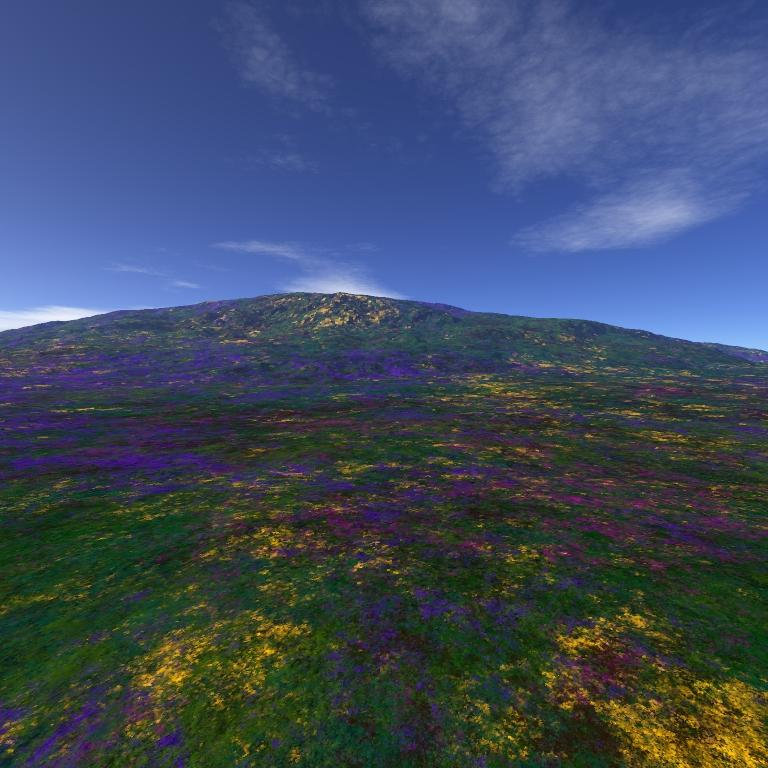
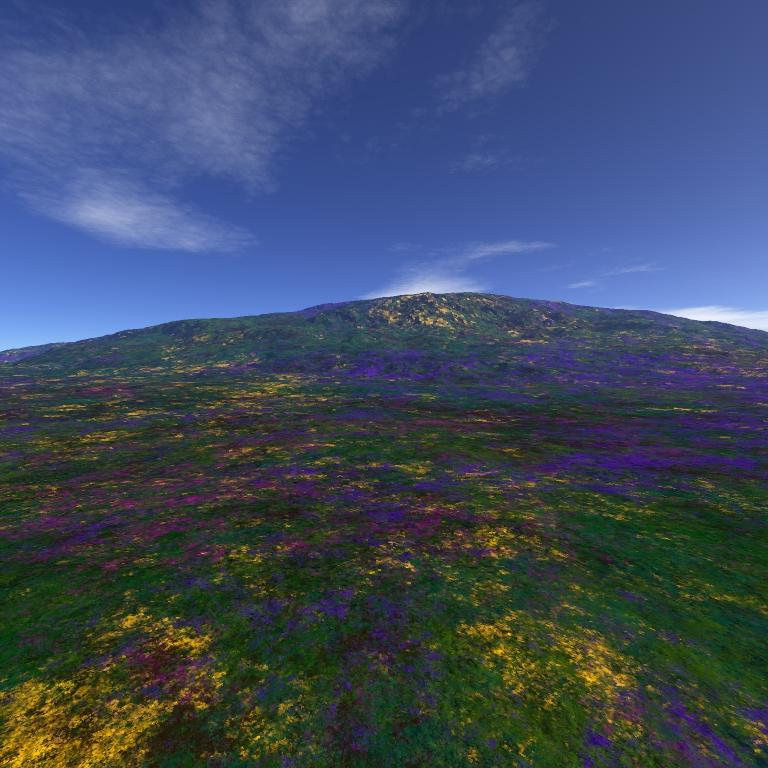
Created the skybox and edited a jpg

diff --git a/P1_CPP/Project_1/Sources/Project1.cpp b/P1_CPP/Project_1/Sources/Project1.cpp
@@ -5,6 +5,7 @@
 */
 
 #include <Project1.hpp>
+#include <cmath>
 #include <string>
 
 namespace {
@@ -206,10 +207,52 @@ int main(int argc, char **argv)
 	glVertexAttribPointer(1, 2, GL_FLOAT, GL_FALSE, 5 * sizeof(float), (void*)(3 * sizeof(float)));
 	glEnableVertexAttribArray(1);
 
+	// Give the skybox its own vertex data so its UV rotation does not affect the boxes.
+	float skyboxVertices[sizeof(vertices) / sizeof(vertices[0])];
+	for (unsigned int i = 0; i < sizeof(vertices) / sizeof(vertices[0]); ++i)
+		skyboxVertices[i] = vertices[i];
+
+	// Face order: back, front, left, right, bottom, top
+	const float skyboxFaceRotationDegrees[6] = { 0.0f, 0.0f, 90.0f, 90.0f, 90.0f, 90.0f };
+	const bool skyboxFaceMirrored[6] = { true, false, false, false, true, false };
+	for (unsigned int face = 0; face < 6; ++face)	// Rotating the UV coordinates of each face of the skybox to match the orientation of the texture images
+	{
+		const float angle = glm::radians(skyboxFaceRotationDegrees[face]);
+		const float c = std::cos(angle);
+		const float s = std::sin(angle);
+		for (unsigned int vertex = 0; vertex < 6; ++vertex)
+		{
+			const unsigned int uv = (face * 6 + vertex) * 5 + 3;
+			const float originalU = skyboxVertices[uv];
+			const float v = skyboxVertices[uv + 1];
+			const float u = skyboxFaceMirrored[face] ? 1.0f - originalU : originalU;
+			const float x = u - 0.5f;
+			const float y = 0.5f - v;
+			skyboxVertices[uv] = c * x + s * y + 0.5f;
+			skyboxVertices[uv + 1] = 0.5f + s * x - c * y;
+		}
+	}
+
+	unsigned int skyboxVAO, skyboxVBO;
+	glGenVertexArrays(1, &skyboxVAO);
+	glGenBuffers(1, &skyboxVBO);
+	glBindVertexArray(skyboxVAO);
+	glBindBuffer(GL_ARRAY_BUFFER, skyboxVBO);
+	glBufferData(GL_ARRAY_BUFFER, sizeof(skyboxVertices), skyboxVertices, GL_STATIC_DRAW);
+	glVertexAttribPointer(0, 3, GL_FLOAT, GL_FALSE, 5 * sizeof(float), (void*)0);
+	glEnableVertexAttribArray(0);
+	glVertexAttribPointer(1, 2, GL_FLOAT, GL_FALSE, 5 * sizeof(float), (void*)(3 * sizeof(float)));
+	glEnableVertexAttribArray(1);
+
 
 	unsigned int box_texture = loadTexture(projectAssetPath("Project_1/Media/textures/container.jpg").c_str());
 	unsigned int smile_texture = loadTexture(projectAssetPath("Project_1/Media/textures/awesomeface.png").c_str());
 	unsigned int front_texture = loadTexture(projectAssetPath("Project_1/Media/skybox/front.jpg").c_str());
+	unsigned int back_texture = loadTexture(projectAssetPath("Project_1/Media/skybox/back.jpg").c_str());
+	unsigned int bottom_texture = loadTexture(projectAssetPath("Project_1/Media/skybox/bottom.jpg").c_str());
+	unsigned int right_texture = loadTexture(projectAssetPath("Project_1/Media/skybox/left.jpg").c_str());
+	unsigned int left_texture = loadTexture(projectAssetPath("Project_1/Media/skybox/right.jpg").c_str());
+	unsigned int top_texture = loadTexture(projectAssetPath("Project_1/Media/skybox/top.jpg").c_str());
 
 
 	// tell opengl for each sampler to which texture unit it belongs to (only has to be done once)
@@ -289,21 +332,26 @@ int main(int argc, char **argv)
 			glDrawArrays(GL_TRIANGLES, 0, 36);
 		}
 
-		// Bind new textures to boh texture positions (do both since it has 2 textures in the vertex shader)
-		glActiveTexture(GL_TEXTURE0);
-		glBindTexture(GL_TEXTURE_2D, front_texture);
-		glActiveTexture(GL_TEXTURE1);
-		glBindTexture(GL_TEXTURE_2D, front_texture);
-
-
-		// Make the model for one wall and shift/scale it
-		glm::mat4 model(1.0f);
-		model = glm::translate(model, glm::vec3(0.0f, 0.0f, 1.0f));
-		model = glm::scale(model, glm::vec3(100.0f, 100.0f, 100.0f));
-
-		// Set model in shader
-		ourShader.setMat4("model", model);
-		glDrawArrays(GL_TRIANGLES, 0, 6);
+		// Draw the six skybox faces
+		const unsigned int skyboxTextures[] = {
+			back_texture, front_texture, left_texture,
+			right_texture, bottom_texture, top_texture
+		};
+		// Set the model matrix for the skybox to be large and centered around the camera
+		glm::mat4 skyboxModel(1.0f);
+		skyboxModel = glm::translate(skyboxModel, glm::vec3(0.0f, 0.0f, 1.0f));
+		skyboxModel = glm::scale(skyboxModel, glm::vec3(100.0f));
+		ourShader.setMat4("model", skyboxModel);
+		
+		glBindVertexArray(skyboxVAO);
+		for (unsigned int face = 0; face < 6; ++face)
+		{
+			glActiveTexture(GL_TEXTURE0);
+			glBindTexture(GL_TEXTURE_2D, skyboxTextures[face]);
+			glActiveTexture(GL_TEXTURE1);
+			glBindTexture(GL_TEXTURE_2D, skyboxTextures[face]);
+			glDrawArrays(GL_TRIANGLES, face * 6, 6);
+		}
 
 		// Draw the heightmap (defined in heightmap.hpp)  Similar to above but you have to write it.
 		//heightmap.Draw(ourShader, box_texture);
@@ -317,7 +365,9 @@ int main(int argc, char **argv)
 	// optional: de-allocate all resources once they've outlived their purpose:
 	// ------------------------------------------------------------------------
 	glDeleteVertexArrays(1, &VAO);
+	glDeleteVertexArrays(1, &skyboxVAO);
 	glDeleteBuffers(1, &VBO);
+	glDeleteBuffers(1, &skyboxVBO);
 
 	// glfw: terminate, clearing all previously allocated GLFW resources.
 	// ------------------------------------------------------------------
